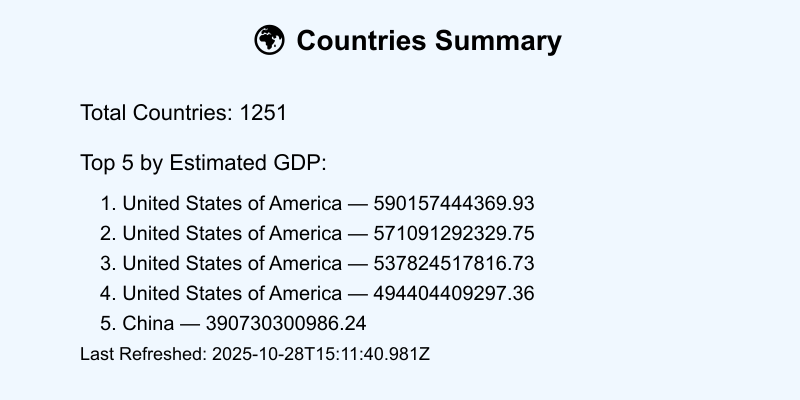
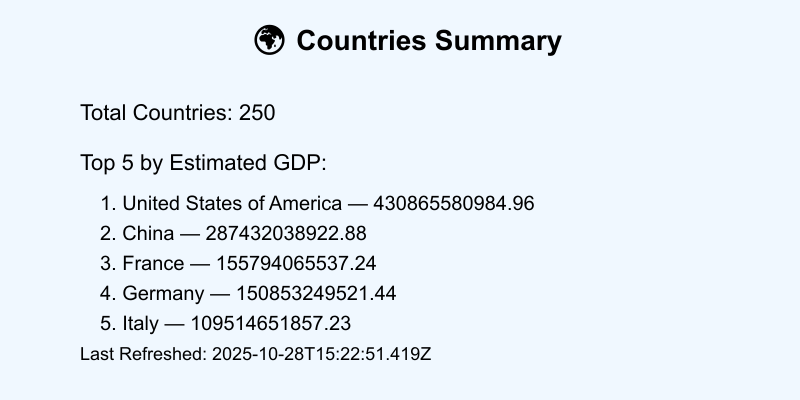
added the readme file

diff --git a/index.js b/index.js
@@ -28,16 +28,7 @@ app.post("/countries/refresh", async (req, res) => {
          const exchange_rate = currency_code ? exchange_rates.data.rates[currency_code] : "null";
          const estimated_gdp = exchange_rate ? (country.population * (1000 + Math.random() * 1000)) / exchange_rate : 0;
          const data = { name: country.name, capital: country.capital, region: country.region, population: country.population, currency_code: currency_code, exchange_rate: exchange_rate, estimated_gdp: estimated_gdp, flag_url: country.flag, last_refreshed_at: new Date().toISOString() };
-         const [name] = await db("countries").insert(data).onConflict("name").merge({
-            capital: db.raw("VALUES(capital)"),
-            region: db.raw("VALUES(region)"),
-            population: db.raw("VALUES(population)"),
-            currency_code: db.raw("VALUES(currency_code)"),
-            exchange_rate: db.raw("VALUES(exchange_rate)"),
-            estimated_gdp: db.raw("VALUES(estimated_gdp)"),
-            flag_url: db.raw("VALUES(flag_url)"),
-            last_refreshed_at: db.raw("VALUES(last_refreshed_at)")
-         });
+         const [name] = await db("countries").insert(data).onConflict("name").merge();
          ;
          response[name] = data;
       }
@@ -163,7 +154,14 @@ app.get("/status", async (req, res) => {
 })
 
 app.get("/countries/image", (req, res) => {
-   res.sendFile("./cache/summary.png");
+   try {
+      const imagePath = path.join(__dirname, "cache/summary.png");
+      res.sendFile(imagePath);
+   }
+   catch (error) {
+      res.status(500).json(`"error": "Summary image not found"`);
+      console.log(error);
+   }
 })
 
 

diff --git a/db.js b/db.js
@@ -1,0 +1,6 @@
+import knex from 'knex';
+import config from './knexfile.js';
+
+const db = knex(config.development);
+
+export default db;

diff --git a/README.md b/README.md
@@ -1,0 +1,332 @@
+🌍 Global Insights API
+
+## Overview
+A robust Node.js Express API designed to aggregate, manage, and deliver comprehensive global country data. This service dynamically fetches information from external APIs, computes statistics like estimated GDP, and persists data using `Knex.js` with `MySQL`. It also provides a visual summary of key global insights.
+
+## Features
+-   **Data Aggregation**: Seamlessly fetches country details from `restcountries.com` and real-time exchange rates from `open.er-api.com`.
+-   **Dynamic GDP Calculation**: Computes estimated Gross Domestic Product (GDP) for each country based on population and current exchange rates.
+-   **Database Persistence**: Efficiently stores and manages country data in a `MySQL` database, ensuring data availability and consistency.
+-   **Country Data Management**: Offers a full suite of API endpoints for retrieving all countries, filtering by criteria, fetching individual country details, and deleting records.
+-   **API Status Monitoring**: Includes an endpoint to monitor the total number of countries in the database and the timestamp of the last data refresh.
+-   **Visual Data Summary**: Generates a dynamic image summary showcasing total countries and top countries by estimated GDP, providing quick insights.
+
+## Getting Started
+
+To get this API up and running on your local machine, follow these steps.
+
+### Installation
+-   **1. Clone the Repository:**
+    ```bash
+    git clone https://github.com/AjaoPeter8/HNG_STAGE_2.git
+    cd HNG_STAGE_2
+    ```
+-   **2. Install Dependencies:**
+    ```bash
+    npm install
+    ```
+-   **3. Database Setup:**
+    *   Ensure you have a `MySQL` server running.
+    *   Create a database named `countries` (or adjust the `knexfile.js` to match your preferred database name).
+    *   Run database migrations to create the necessary `countries` table:
+        ```bash
+        npx knex migrate:latest
+        ```
+    *   *(Optional)* While the `countries_seed.js` file is commented out, if you had seed data, you would run:
+        ```bash
+        npx knex seed:run
+        ```
+-   **4. Start the Application:**
+    ```bash
+    node index.js
+    ```
+    The API will be accessible at `http://localhost:3000`.
+
+### Environment Variables
+For development, your `knexfile.js` contains hardcoded database credentials. For production environments, it is highly recommended to use environment variables.
+
+| Variable | Example Value | Description |
+| :------- | :------------ | :---------- |
+| `DB_HOST` | `127.0.0.1`   | The database server host. |
+| `DB_USER` | `root`        | The database user. |
+| `DB_PASSWORD` | `''`          | The password for the database user. |
+| `DB_NAME` | `countries`   | The name of the database. |
+
+To use these as environment variables, you would typically create a `.env` file and modify `knexfile.js` to read from `process.env`.
+
+## API Documentation
+
+### Base URL
+`http://localhost:3000`
+
+### Endpoints
+
+#### `POST /countries/refresh`
+Refreshes the country data in the database by fetching the latest information from external APIs (`restcountries.com` and `open.er-api.com`). This operation calculates estimated GDP and updates existing country records or inserts new ones.
+
+**Request**:
+```json
+{}
+```
+(No request payload needed)
+
+**Response**:
+```json
+{
+  "Nigeria": {
+    "name": "Nigeria",
+    "capital": "Abuja",
+    "region": "Africa",
+    "population": 223000000,
+    "currency_code": "NGN",
+    "exchange_rate": 1500,
+    "estimated_gdp": 123456789.00,
+    "flag_url": "https://flagcdn.com/ng.svg",
+    "last_refreshed_at": "2023-10-27T10:00:00.000Z"
+  },
+  "Germany": {
+    "name": "Germany",
+    "capital": "Berlin",
+    "region": "Europe",
+    "population": 83000000,
+    "currency_code": "EUR",
+    "exchange_rate": 0.95,
+    "estimated_gdp": 9876543210.00,
+    "flag_url": "https://flagcdn.com/de.svg",
+    "last_refreshed_at": "2023-10-27T10:00:00.000Z"
+  }
+  // ... more country objects
+}
+```
+
+**Errors**:
+-   `503 Service Unavailable`: External data source unavailable.
+    ```json
+    {
+      "error": "External data source unavailable",
+      "details": "Could not fetch data from [API name]"
+    }
+    ```
+
+#### `GET /countries`
+Retrieves a list of all countries or filters them based on query parameters.
+
+**Request**:
+(No request payload needed. Filters are passed as query parameters.)
+Example: `GET /countries?region=Africa`
+Example: `GET /countries?name=Nigeria`
+
+**Response**:
+```json
+[
+  {
+    "id": 1,
+    "name": "Nigeria",
+    "capital": "Abuja",
+    "region": "Africa",
+    "population": 223000000,
+    "currency_code": "NGN",
+    "exchange_rate": 1500,
+    "estimated_gdp": 123456789.00,
+    "flag_url": "https://flagcdn.com/ng.svg",
+    "last_refreshed_at": "2023-10-27T10:00:00.000Z"
+  },
+  {
+    "id": 2,
+    "name": "Germany",
+    "capital": "Berlin",
+    "region": "Europe",
+    "population": 83000000,
+    "currency_code": "EUR",
+    "exchange_rate": 0.95,
+    "estimated_gdp": 9876543210.00,
+    "flag_url": "https://flagcdn.com/de.svg",
+    "last_refreshed_at": "2023-10-27T10:00:00.000Z"
+  }
+  // ... more country objects
+]
+```
+
+**Errors**:
+-   `404 Not Found`: No countries match the provided filters.
+
+#### `GET /countries/:name`
+Retrieves detailed information for a specific country by its name.
+
+**Request**:
+(No request payload needed. Country name is a path parameter.)
+Example: `GET /countries/Nigeria`
+
+**Response**:
+```json
+[
+  {
+    "id": 1,
+    "name": "Nigeria",
+    "capital": "Abuja",
+    "region": "Africa",
+    "population": 223000000,
+    "currency_code": "NGN",
+    "exchange_rate": 1500,
+    "estimated_gdp": 123456789.00,
+    "flag_url": "https://flagcdn.com/ng.svg",
+    "last_refreshed_at": "2023-10-27T10:00:00.000Z"
+  }
+]
+```
+
+**Errors**:
+-   `404 Not Found`: Country not found.
+    ```json
+    {
+      "error": "Country not found"
+    }
+    ```
+
+#### `DELETE /countries/:name`
+Deletes a country record from the database by its name.
+
+**Request**:
+(No request payload needed. Country name is a path parameter.)
+Example: `DELETE /countries/Nigeria`
+
+**Response**:
+```json
+1
+```
+(Returns the number of affected rows, typically `1` on success, `0` if not found.)
+
+**Errors**:
+-   `404 Not Found`: Country with the specified name does not exist.
+-   `500 Internal Server Error`: An error occurred during the deletion process.
+
+#### `GET /status`
+Provides a status overview of the API, including the total number of countries and the timestamp of the last data refresh.
+
+**Request**:
+```json
+{}
+```
+(No request payload needed)
+
+**Response**:
+```json
+{
+  "total_countries": 50,
+  "last_refreshed_at": "2023-10-27T10:00:00.000Z"
+}
+```
+
+**Errors**:
+-   `500 Internal Server Error`: An internal server error occurred while fetching status.
+    ```json
+    {
+      "error": "Internal server error"
+    }
+    ```
+
+#### `GET /countries/image`
+Retrieves a dynamically generated image summary showcasing total countries and top 5 countries by estimated GDP.
+
+**Request**:
+```json
+{}
+```
+(No request payload needed)
+
+**Response**:
+(Returns a PNG image file)
+
+**Errors**:
+-   `500 Internal Server Error`: The summary image could not be found or generated.
+    ```json
+    {
+      "error": "Summary image not found"
+    }
+    ```
+
+## Usage
+
+Once the server is running, you can interact with the API using tools like Postman, Insomnia, or `curl`.
+
+**1. Refresh Country Data:**
+To populate or update your database with the latest country information:
+
+```bash
+curl -X POST http://localhost:3000/countries/refresh
+```
+
+This will fetch data from external APIs, process it, and store it. You will receive a JSON response containing the updated country data.
+
+**2. Retrieve All Countries:**
+To get a list of all countries currently in the database:
+
+```bash
+curl http://localhost:3000/countries
+```
+
+**3. Filter Countries by Region:**
+You can filter countries using query parameters, for example, to get all countries in 'Africa':
+
+```bash
+curl http://localhost:3000/countries?region=Africa
+```
+
+**4. Get Details for a Specific Country:**
+To retrieve data for a single country by its name:
+
+```bash
+curl http://localhost:3000/countries/Nigeria
+```
+
+**5. Delete a Country:**
+To remove a country record from the database:
+
+```bash
+curl -X DELETE http://localhost:3000/countries/Nigeria
+```
+
+The response will be `1` if successful, or `0` if the country was not found.
+
+**6. Check API Status:**
+To get current statistics like total countries and the last refresh time:
+
+```bash
+curl http://localhost:3000/status
+```
+
+**7. View Data Summary Image:**
+To access the generated visual summary of the country data:
+
+```bash
+curl http://localhost:3000/countries/image --output summary.png
+```
+This command will download the `summary.png` image to your current directory.
+
+## Technologies Used
+
+| Technology  | Version   | Description                                           |
+| :---------- | :-------- | :---------------------------------------------------- |
+| Node.js     | ^16.x     | JavaScript runtime environment                        |
+| Express.js  | ^5.1.0    | Fast, unopinionated, minimalist web framework         |
+| Knex.js     | ^2.x      | SQL query builder for PostgreSQL, MySQL, SQLite3, Oracle |
+| MySQL       | ^8.0      | Open-source relational database management system     |
+| Axios       | ^1.12.2   | Promise-based HTTP client for the browser and node.js |
+| Canvas      | ^3.2.0    | Drawing surfaces and images programmatically          |
+| Body-parser | ^2.2.0    | Node.js body parsing middleware                       |
+
+## Author Info
+
+**AJAO PETER OLUWAFEMI**
+-   [LinkedIn](https://linkedin.com/in/ajao-peter-oluwafemi)
+-   [Twitter](https://twitter.com/Ajao_Peter_O)
+
+---
+[![Node.js](https://img.shields.io/badge/Node.js-v16%2B-green?logo=node.js&logoColor=white)](https://nodejs.org/)
+[![Express.js](https://img.shields.io/badge/Express.js-5.1.0-blue?logo=express&logoColor=white)](https://expressjs.com/)
+[![MySQL](https://img.shields.io/badge/MySQL-8.0-orange?logo=mysql&logoColor=white)](https://www.mysql.com/)
+[![Knex.js](https://img.shields.io/badge/Knex.js-2.x-red?logo=knex.js&logoColor=white)](https://knexjs.org/)
+[![License: MIT](https://img.shields.io/badge/License-MIT-yellow.svg)](https://opensource.org/licenses/MIT)
+
+---
+[![Readme was generated by Dokugen](https://img.shields.io/badge/Readme%20was%20generated%20by-Dokugen-brightgreen)](https://www.npmjs.com/package/dokugen)
